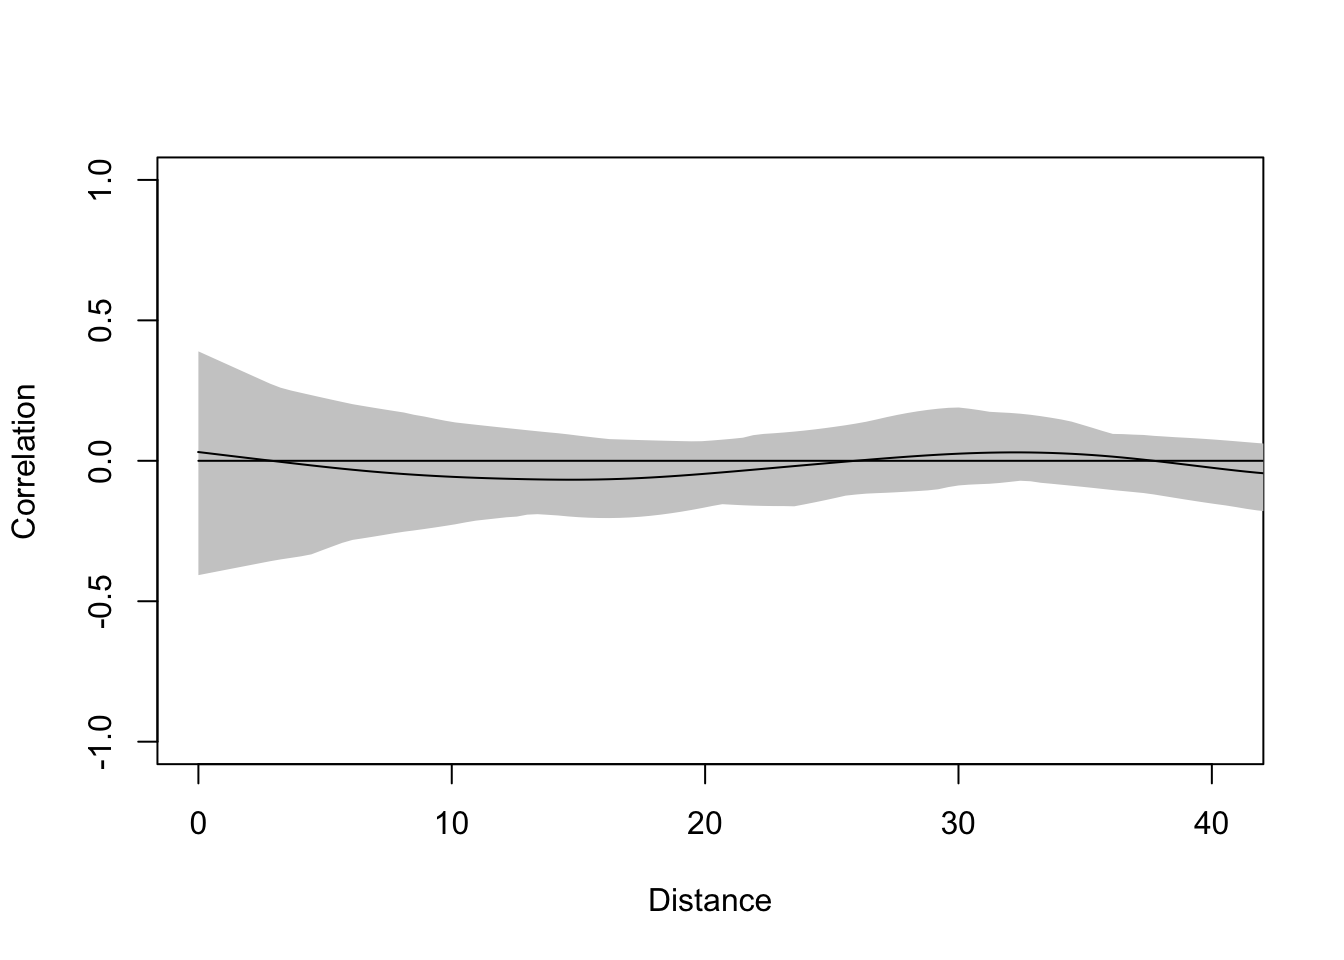
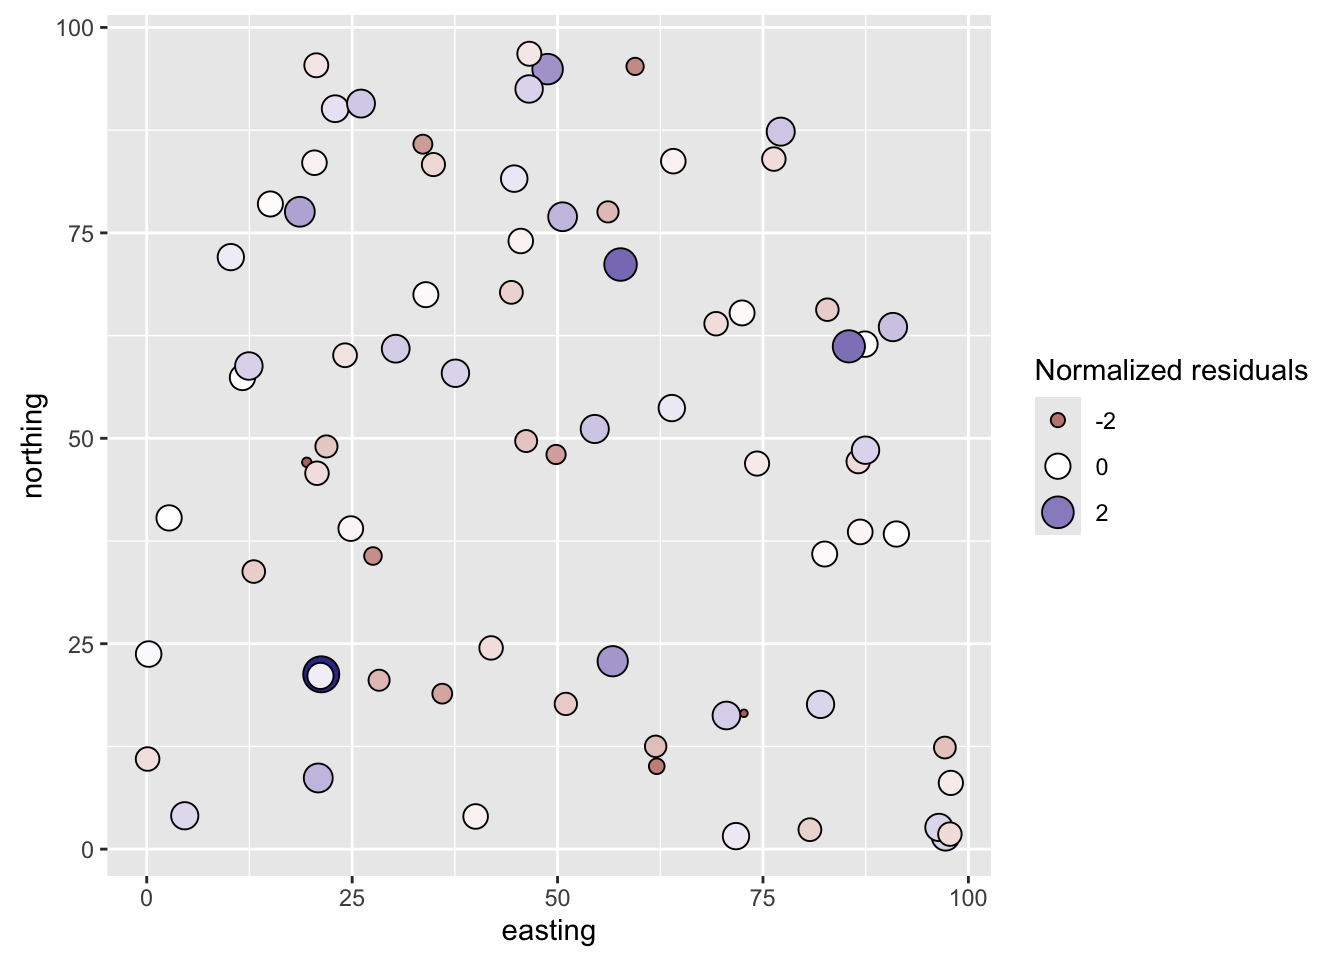
callout added

diff --git a/docs/07RegressionGLS.html b/docs/07RegressionGLS.html
@@ -423,9 +423,9 @@ window.Quarto = {
 <p>In general, here is a good approach when dealing with spatial data in a regression.</p>
 <ol type="1">
 <li><p>Start by assuming iid (e.g., doing an ordinary least squares regression).</p></li>
-<li><p>Look at the spatial structure of the residuals with Moran’s I.</p></li>
-<li><p>If the residuals look clean then carry on. Note that it’s OK for <span class="math inline">\(y\)</span> or <span class="math inline">\(x\)</span> to be autocorrelated, what matters is the residuals. If the residuals have spatial structure, quantify it using Moran’s I. Spatial structure might or might not be a problem. But if your life/thesis/soul depends on having a clean model you’ll want to deal with it.</p></li>
-<li><p>Fit a variogram to the residuals. We can use this information to fit a GLS model where we specify the spatial structure in the error term using a variogram model fit from the semivariance on the residuals.</p></li>
+<li><p>Test the OLS residuals for spatial autocorrelation using Moran’s I. This is a go/no-go decision: if the test is not significant, the residuals are consistent with independence and you can stop here – OLS is fine. Note that it’s OK for <span class="math inline">\(y\)</span> or <span class="math inline">\(x\)</span> to be autocorrelated; what matters is the residuals.</p></li>
+<li><p>If Moran’s I is significant, fit a variogram to the residuals. Moran’s I tells you that autocorrelation exists; the variogram tells you what its structure looks like – the range, the sill, the nugget. You need that to specify the correlation structure for GLS.</p></li>
+<li><p>Fit a GLS model with a spatial correlation structure based on the variogram model.</p></li>
 </ol>
 </section>
 <section id="gls-and-ols" class="level2">
@@ -620,22 +620,59 @@ Degrees of freedom: 75 total; 73 residual</code></pre>
 </div>
 </div>
 </div>
-<p>The residuals of this model are autocorrelated at short distances and we have violated the assumption of independent residuals. But do not despair. We will use a GLS model that allows us to specify a spatial correlation structure for the residuals and perform hypothesis testing in the presence of spatial structure. Doing so will give us new and improved estimates of the parameters. We will thus sleep well knowing in our hearts that we have done good.</p>
+<p>The correlogram shows clear positive autocorrelation at short distances. Now for the go/no-go decision: we’ll use Moran’s I to get a formal test. If this is not significant, we stop here and use OLS. If it is, we proceed to characterize the structure with a variogram and fit a GLS model.</p>
+<div class="cell">
+<details open="" class="code-fold">
+<summary>Code</summary>
+<div class="code-copy-outer-scaffold"><div class="sourceCode cell-code" id="cb12"><pre class="sourceCode r code-with-copy"><code class="sourceCode r"><span id="cb12-1"><a href="#cb12-1" aria-hidden="true" tabindex="-1"></a><span class="fu">moran.test</span>(dat<span class="sc">$</span>glsNaiveResids, wList)</span></code></pre></div><button title="Copy to Clipboard" class="code-copy-button"><i class="bi"></i></button></div>
+</details>
+<div class="cell-output cell-output-stdout">
+<pre><code>
+    Moran I test under randomisation
+
+data:  dat$glsNaiveResids  
+weights: wList    
+
+Moran I statistic standard deviate = 8.1206, p-value = 2.32e-16
+alternative hypothesis: greater
+sample estimates:
+Moran I statistic       Expectation          Variance 
+      0.695087343      -0.013513514       0.007614331 </code></pre>
+</div>
+</div>
+<p>Significant. We proceed.</p>
 <p>We need to determine an appropriate theoretical model for the spatial structure of the residuals and pass that to <code>gls</code>. Before we do, it is worth thinking about what happens under the hood. GLS builds a variance-covariance matrix <span class="math inline">\(\Sigma\)</span> for the residuals, where each off-diagonal entry <span class="math inline">\(\Sigma_{ij}\)</span> is a function of the distance between locations <span class="math inline">\(i\)</span> and <span class="math inline">\(j\)</span> – with the functional form coming from the correlation structure you specify. Then it estimates both the regression coefficients and the correlation parameters (the range, nugget, and partial sill) together by maximizing the likelihood. The estimator is <span class="math inline">\(\hat\beta = (X^T \Sigma^{-1} X)^{-1} X^T \Sigma^{-1} y\)</span>, which you can compare to the OLS version <span class="math inline">\((X^T X)^{-1} X^T y\)</span>: OLS weights every observation equally, GLS weights by the inverse of the covariance structure. The default method in <code>gls</code> is REML, which gives better estimates of the variance parameters than plain ML, at the cost of not being able to compare models with different fixed effects via likelihood ratio tests. You generally want REML for estimation and ML if you need to compare fixed effects with <code>anova</code>.</p>
-<p>In <code>nlme</code>, correlation structures are represented by a family of objects that all inherit from a parent class called <code>corStruct</code>. Think of <code>corStruct</code> as the generic container: it tells <code>gls</code> “here is the shape of the correlation among the residuals.” The spatial flavor of this is <code>corSpatial</code>, which takes a <code>form</code> argument specifying your coordinate columns, a <code>nugget</code> flag, and a <code>type</code> argument for the model family. When you write <code>corSpatial(form=~easting+northing, nugget=TRUE, type="spherical")</code> you are building one of these objects. There are also convenience wrappers <code>corSpher</code>, <code>corGaus</code>, and <code>corExp</code> that are just shorthand for <code>corSpatial</code> with a fixed <code>type</code>. The reason the class hierarchy is worth knowing is that <code>gls</code> accepts any <code>corStruct</code> in its <code>correlation</code> argument, not just spatial ones – <code>corAR1</code> for time series autocorrelation works the same way, for instance.</p>
+<p>In <code>nlme</code>, correlation structures are represented by a family of objects that all inherit from a parent class called <code>corStruct</code>.</p>
+<div class="callout callout-style-default callout-note callout-titled">
+<div class="callout-header d-flex align-content-center">
+<div class="callout-icon-container">
+<i class="callout-icon"></i>
+</div>
+<div class="callout-title-container flex-fill">
+<span class="screen-reader-only">Note</span>ML vs.&nbsp;REML
+</div>
+</div>
+<div class="callout-body-container callout-body">
+<p>Both ML (maximum likelihood) and REML (restricted maximum likelihood) estimate model parameters by maximizing a likelihood function, but they differ in what that function is.</p>
+<p>ML maximizes the likelihood of the data given all the parameters at once – including both the fixed effects (<span class="math inline">\(\beta\)</span>) and the variance parameters (range, sill, nugget). The problem is that this treats the fixed effects as known when estimating the variance, which causes the variance estimates to be systematically too small, in the same way that dividing by <span class="math inline">\(n\)</span> rather than <span class="math inline">\(n-1\)</span> when computing a sample variance gives a biased result.</p>
+<p>REML corrects for this by maximizing a likelihood that has been transformed to remove the fixed effects first. This gives unbiased estimates of the variance parameters. The cost is that the REML likelihood depends on the fixed effects structure, so you cannot use a likelihood ratio test to compare two REML models with different fixed effects – the likelihoods are not comparable in that case.</p>
+<p>The practical rule: use REML (the default in <code>gls</code>) for your final model and for comparing models with different covariance structures. Switch to <code>method="ML"</code> only if you need to compare models with different fixed effects using <code>anova</code>.</p>
+</div>
+</div>
+<p>Think of <code>corStruct</code> as the generic container: it tells <code>gls</code> “here is the shape of the correlation among the residuals.” The spatial flavor of this is <code>corSpatial</code>, which takes a <code>form</code> argument specifying your coordinate columns, a <code>nugget</code> flag, and a <code>type</code> argument for the model family. When you write <code>corSpatial(form=~easting+northing, nugget=TRUE, type="spherical")</code> you are building one of these objects. There are also convenience wrappers <code>corSpher</code>, <code>corGaus</code>, and <code>corExp</code> that are just shorthand for <code>corSpatial</code> with a fixed <code>type</code>. The reason the class hierarchy is worth knowing is that <code>gls</code> accepts any <code>corStruct</code> in its <code>correlation</code> argument, not just spatial ones – <code>corAR1</code> for time series autocorrelation works the same way, for instance.</p>
 <p>The families available in <code>gls</code> roughly match the theoretical variogram models we used with kriging: spherical, exponential, Gaussian, and so on. So, let’s fit a variogram to the residuals and see which model fits best.</p>
 <p>Here we’ll cheat a little and use <code>autofitVariogram</code> to get a model suggestion rather than go through the fitting process by hand with <code>variogram</code>, <code>vgm</code>, and <code>fit.variogram</code> from <code>gstat</code>.</p>
 <div class="cell">
 <details open="" class="code-fold">
 <summary>Code</summary>
-<div class="code-copy-outer-scaffold"><div class="sourceCode cell-code" id="cb12"><pre class="sourceCode r code-with-copy"><code class="sourceCode r"><span id="cb12-1"><a href="#cb12-1" aria-hidden="true" tabindex="-1"></a>datSF <span class="ot">&lt;-</span> dat <span class="sc">%&gt;%</span> <span class="fu">st_as_sf</span>(<span class="at">coords =</span> <span class="fu">c</span>(<span class="st">"easting"</span>,<span class="st">"northing"</span>))</span>
-<span id="cb12-2"><a href="#cb12-2" aria-hidden="true" tabindex="-1"></a><span class="co"># A variogram of the residuals</span></span>
-<span id="cb12-3"><a href="#cb12-3" aria-hidden="true" tabindex="-1"></a><span class="fu">plot</span>(<span class="fu">autofitVariogram</span>(glsNaiveResids<span class="sc">~</span><span class="dv">1</span>, <span class="at">input_data =</span> datSF, <span class="at">model =</span> <span class="fu">c</span>(<span class="st">"Gau"</span>,<span class="st">"Sph"</span>,<span class="st">"Exp"</span>)))</span></code></pre></div><button title="Copy to Clipboard" class="code-copy-button"><i class="bi"></i></button></div>
+<div class="code-copy-outer-scaffold"><div class="sourceCode cell-code" id="cb14"><pre class="sourceCode r code-with-copy"><code class="sourceCode r"><span id="cb14-1"><a href="#cb14-1" aria-hidden="true" tabindex="-1"></a>datSF <span class="ot">&lt;-</span> dat <span class="sc">%&gt;%</span> <span class="fu">st_as_sf</span>(<span class="at">coords =</span> <span class="fu">c</span>(<span class="st">"easting"</span>,<span class="st">"northing"</span>))</span>
+<span id="cb14-2"><a href="#cb14-2" aria-hidden="true" tabindex="-1"></a><span class="co"># A variogram of the residuals</span></span>
+<span id="cb14-3"><a href="#cb14-3" aria-hidden="true" tabindex="-1"></a><span class="fu">plot</span>(<span class="fu">autofitVariogram</span>(glsNaiveResids<span class="sc">~</span><span class="dv">1</span>, <span class="at">input_data =</span> datSF, <span class="at">model =</span> <span class="fu">c</span>(<span class="st">"Gau"</span>,<span class="st">"Sph"</span>,<span class="st">"Exp"</span>)))</span></code></pre></div><button title="Copy to Clipboard" class="code-copy-button"><i class="bi"></i></button></div>
 </details>
 <div class="cell-output-display">
 <div>
 <figure class="figure">
-<p><img src="07RegressionGLS_files/figure-html/unnamed-chunk-11-1.png" class="img-fluid figure-img" width="672"></p>
+<p><img src="07RegressionGLS_files/figure-html/unnamed-chunk-12-1.png" class="img-fluid figure-img" width="672"></p>
 </figure>
 </div>
 </div>
@@ -645,9 +682,9 @@ Degrees of freedom: 75 total; 73 residual</code></pre>
 <div class="cell">
 <details open="" class="code-fold">
 <summary>Code</summary>
-<div class="code-copy-outer-scaffold"><div class="sourceCode cell-code" id="cb13"><pre class="sourceCode r code-with-copy"><code class="sourceCode r"><span id="cb13-1"><a href="#cb13-1" aria-hidden="true" tabindex="-1"></a>csSpatial <span class="ot">&lt;-</span> <span class="fu">corSpatial</span>(<span class="at">form=</span><span class="sc">~</span>easting<span class="sc">+</span>northing,<span class="at">nugget=</span><span class="cn">TRUE</span>, <span class="at">type =</span> <span class="st">"spherical"</span>)</span>
-<span id="cb13-2"><a href="#cb13-2" aria-hidden="true" tabindex="-1"></a>glsUpdated <span class="ot">&lt;-</span> <span class="fu">update</span>(glsNaive,<span class="at">correlation=</span>csSpatial)</span>
-<span id="cb13-3"><a href="#cb13-3" aria-hidden="true" tabindex="-1"></a><span class="fu">summary</span>(glsUpdated)</span></code></pre></div><button title="Copy to Clipboard" class="code-copy-button"><i class="bi"></i></button></div>
+<div class="code-copy-outer-scaffold"><div class="sourceCode cell-code" id="cb15"><pre class="sourceCode r code-with-copy"><code class="sourceCode r"><span id="cb15-1"><a href="#cb15-1" aria-hidden="true" tabindex="-1"></a>csSpatial <span class="ot">&lt;-</span> <span class="fu">corSpatial</span>(<span class="at">form=</span><span class="sc">~</span>easting<span class="sc">+</span>northing,<span class="at">nugget=</span><span class="cn">TRUE</span>, <span class="at">type =</span> <span class="st">"spherical"</span>)</span>
+<span id="cb15-2"><a href="#cb15-2" aria-hidden="true" tabindex="-1"></a>glsUpdated <span class="ot">&lt;-</span> <span class="fu">update</span>(glsNaive,<span class="at">correlation=</span>csSpatial)</span>
+<span id="cb15-3"><a href="#cb15-3" aria-hidden="true" tabindex="-1"></a><span class="fu">summary</span>(glsUpdated)</span></code></pre></div><button title="Copy to Clipboard" class="code-copy-button"><i class="bi"></i></button></div>
 </details>
 <div class="cell-output cell-output-stdout">
 <pre><code>Generalized least squares fit by REML
@@ -697,20 +734,20 @@ Note
 <div class="cell">
 <details open="" class="code-fold">
 <summary>Code</summary>
-<div class="code-copy-outer-scaffold"><div class="sourceCode cell-code" id="cb15"><pre class="sourceCode r code-with-copy"><code class="sourceCode r"><span id="cb15-1"><a href="#cb15-1" aria-hidden="true" tabindex="-1"></a><span class="co"># add the residuals to the spatial dat object</span></span>
-<span id="cb15-2"><a href="#cb15-2" aria-hidden="true" tabindex="-1"></a>dat<span class="sc">$</span>glsResids <span class="ot">&lt;-</span> <span class="fu">residuals</span>(glsUpdated,<span class="at">type=</span><span class="st">"normalized"</span>)</span>
-<span id="cb15-3"><a href="#cb15-3" aria-hidden="true" tabindex="-1"></a><span class="co"># Map the residuals from gls</span></span>
-<span id="cb15-4"><a href="#cb15-4" aria-hidden="true" tabindex="-1"></a><span class="fu">ggplot</span>(<span class="at">data =</span> dat, <span class="at">mapping =</span> <span class="fu">aes</span>(<span class="at">x=</span>easting,<span class="at">y=</span>northing,</span>
-<span id="cb15-5"><a href="#cb15-5" aria-hidden="true" tabindex="-1"></a>                                 <span class="at">size=</span>glsResids, <span class="at">fill=</span>glsResids)) <span class="sc">+</span></span>
-<span id="cb15-6"><a href="#cb15-6" aria-hidden="true" tabindex="-1"></a>  <span class="fu">geom_point</span>(<span class="at">shape=</span><span class="dv">21</span>) <span class="sc">+</span></span>
-<span id="cb15-7"><a href="#cb15-7" aria-hidden="true" tabindex="-1"></a>  <span class="fu">scale_fill_gradient2</span>() <span class="sc">+</span></span>
-<span id="cb15-8"><a href="#cb15-8" aria-hidden="true" tabindex="-1"></a>  <span class="fu">guides</span>(<span class="at">fill=</span><span class="fu">guide_legend</span>(), <span class="at">size =</span> <span class="fu">guide_legend</span>()) <span class="sc">+</span></span>
-<span id="cb15-9"><a href="#cb15-9" aria-hidden="true" tabindex="-1"></a>  <span class="fu">coord_fixed</span>()</span></code></pre></div><button title="Copy to Clipboard" class="code-copy-button"><i class="bi"></i></button></div>
+<div class="code-copy-outer-scaffold"><div class="sourceCode cell-code" id="cb17"><pre class="sourceCode r code-with-copy"><code class="sourceCode r"><span id="cb17-1"><a href="#cb17-1" aria-hidden="true" tabindex="-1"></a><span class="co"># add the residuals to the spatial dat object</span></span>
+<span id="cb17-2"><a href="#cb17-2" aria-hidden="true" tabindex="-1"></a>dat<span class="sc">$</span>glsResids <span class="ot">&lt;-</span> <span class="fu">residuals</span>(glsUpdated,<span class="at">type=</span><span class="st">"normalized"</span>)</span>
+<span id="cb17-3"><a href="#cb17-3" aria-hidden="true" tabindex="-1"></a><span class="co"># Map the residuals from gls</span></span>
+<span id="cb17-4"><a href="#cb17-4" aria-hidden="true" tabindex="-1"></a><span class="fu">ggplot</span>(<span class="at">data =</span> dat, <span class="at">mapping =</span> <span class="fu">aes</span>(<span class="at">x=</span>easting,<span class="at">y=</span>northing,</span>
+<span id="cb17-5"><a href="#cb17-5" aria-hidden="true" tabindex="-1"></a>                                 <span class="at">size=</span>glsResids, <span class="at">fill=</span>glsResids)) <span class="sc">+</span></span>
+<span id="cb17-6"><a href="#cb17-6" aria-hidden="true" tabindex="-1"></a>  <span class="fu">geom_point</span>(<span class="at">shape=</span><span class="dv">21</span>) <span class="sc">+</span></span>
+<span id="cb17-7"><a href="#cb17-7" aria-hidden="true" tabindex="-1"></a>  <span class="fu">scale_fill_gradient2</span>() <span class="sc">+</span></span>
+<span id="cb17-8"><a href="#cb17-8" aria-hidden="true" tabindex="-1"></a>  <span class="fu">guides</span>(<span class="at">fill=</span><span class="fu">guide_legend</span>(), <span class="at">size =</span> <span class="fu">guide_legend</span>()) <span class="sc">+</span></span>
+<span id="cb17-9"><a href="#cb17-9" aria-hidden="true" tabindex="-1"></a>  <span class="fu">coord_fixed</span>()</span></code></pre></div><button title="Copy to Clipboard" class="code-copy-button"><i class="bi"></i></button></div>
 </details>
 <div class="cell-output-display">
 <div>
 <figure class="figure">
-<p><img src="07RegressionGLS_files/figure-html/unnamed-chunk-13-1.png" class="img-fluid figure-img" width="672"></p>
+<p><img src="07RegressionGLS_files/figure-html/unnamed-chunk-14-1.png" class="img-fluid figure-img" width="672"></p>
 </figure>
 </div>
 </div>
@@ -719,14 +756,14 @@ Note
 <div class="cell">
 <details open="" class="code-fold">
 <summary>Code</summary>
-<div class="code-copy-outer-scaffold"><div class="sourceCode cell-code" id="cb16"><pre class="sourceCode r code-with-copy"><code class="sourceCode r"><span id="cb16-1"><a href="#cb16-1" aria-hidden="true" tabindex="-1"></a>residsI <span class="ot">&lt;-</span> <span class="fu">spline.correlog</span>(<span class="at">x=</span>dat<span class="sc">$</span>easting, <span class="at">y=</span>dat<span class="sc">$</span>northing,</span>
-<span id="cb16-2"><a href="#cb16-2" aria-hidden="true" tabindex="-1"></a>                           <span class="at">z=</span>dat<span class="sc">$</span>glsResids, <span class="at">resamp=</span><span class="dv">50</span>, <span class="at">quiet=</span><span class="cn">TRUE</span>)</span>
-<span id="cb16-3"><a href="#cb16-3" aria-hidden="true" tabindex="-1"></a><span class="fu">plot</span>(residsI,<span class="at">xlim=</span><span class="fu">c</span>(<span class="dv">0</span>,<span class="fu">max</span>(<span class="fu">dist</span>(points))<span class="sc">/</span><span class="dv">3</span>))</span></code></pre></div><button title="Copy to Clipboard" class="code-copy-button"><i class="bi"></i></button></div>
+<div class="code-copy-outer-scaffold"><div class="sourceCode cell-code" id="cb18"><pre class="sourceCode r code-with-copy"><code class="sourceCode r"><span id="cb18-1"><a href="#cb18-1" aria-hidden="true" tabindex="-1"></a>residsI <span class="ot">&lt;-</span> <span class="fu">spline.correlog</span>(<span class="at">x=</span>dat<span class="sc">$</span>easting, <span class="at">y=</span>dat<span class="sc">$</span>northing,</span>
+<span id="cb18-2"><a href="#cb18-2" aria-hidden="true" tabindex="-1"></a>                           <span class="at">z=</span>dat<span class="sc">$</span>glsResids, <span class="at">resamp=</span><span class="dv">50</span>, <span class="at">quiet=</span><span class="cn">TRUE</span>)</span>
+<span id="cb18-3"><a href="#cb18-3" aria-hidden="true" tabindex="-1"></a><span class="fu">plot</span>(residsI,<span class="at">xlim=</span><span class="fu">c</span>(<span class="dv">0</span>,<span class="fu">max</span>(<span class="fu">dist</span>(points))<span class="sc">/</span><span class="dv">3</span>))</span></code></pre></div><button title="Copy to Clipboard" class="code-copy-button"><i class="bi"></i></button></div>
 </details>
 <div class="cell-output-display">
 <div>
 <figure class="figure">
-<p><img src="07RegressionGLS_files/figure-html/unnamed-chunk-14-1.png" class="img-fluid figure-img" width="672"></p>
+<p><img src="07RegressionGLS_files/figure-html/unnamed-chunk-15-1.png" class="img-fluid figure-img" width="672"></p>
 </figure>
 </div>
 </div>